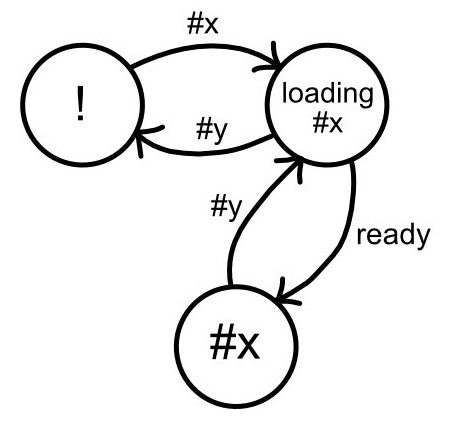
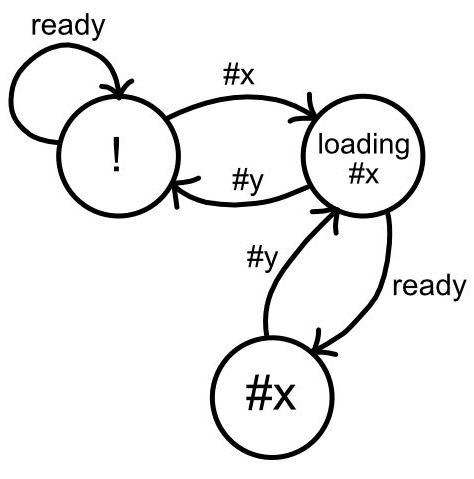
Update the readme document and the hstates image for the single-page website.

Changed region(s): [[0.0, 0.03, 0.9868, 0.9607], [0.6476, 0.9007, 0.6784, 0.9307]]

diff --git a/README.md b/README.md
@@ -4,7 +4,7 @@ JavaScript FSM (Finite State Machine)
 What is a FSM?
 --------------
 
-FSM is a model for keeping track of a finite number of states, where the machine can only be in one state at the time; the _current state_. It can change state to the _next state_ when an _event_ is triggered. This can then perform some sort of _action_. The machine is usually defined as a table with four columns: _Current State_, _Transition Event_, _Next State_ and _Action_.
+FSM is a model for keeping track of a finite number of states, where the machine can only be in one state at the time; the _current state_. It can change state to the _next state_ when an _event_ is triggered, this can perform some sort of _action_. The machine is usually defined as a table with four columns: _Current State_, _Transition Event_, _Next State_ and _Action_.
 
 Because of the FSM model's simplicity and ability to handle asynchronous code, it can be in good use in a single-page application, among others.
 
@@ -28,34 +28,34 @@ _Append:_ Takes a scope function as an argument, this function should then retur
       }
       
       return [
-        ['init', 'ready', 'home', onReady],
+        ['^init', 'ready', 'home', onReady],
         [/^\w+/,  'load'   'home', onLoad]
       ];
     })
   
 The state table has the following structure: [_Current State_, _Transition Event_, _Next State_, _Action_].
 
-  - _Current State_: Can be a string with the state name or a RegExp object, if a RegExp object is given it will add the event to every state that matches that expression, except the next state.
+  - _Current State_: Can be a string with the state name or a RegExp object, if a RegExp object is given it will add the event to every state that matches that expression, except the _next state_.
   - _Transition Event_: Change the state of the machine, if applicable.
   - _Next State_: Name of the next state. If a '<' given it will go to the last state.
-  - _Action_: Function that perform some kind of action, can be omitted.
+  - _Action_: Function that perform some kind of _action_, can be omitted.
 
-_fireEvent_: Fires a transition event with arguments. It will call the action with the given arguments and change the state according to the FSM table. If there are no current state and event par an error will be thrown.
+_fireEvent_: Fires a transition event with arguments. It will call the action with the given arguments and change the state according to the FSM table. If there are no _current state_ and _event_ pairs an error will be thrown.
 
     fsm.fireEvent('load', "page/home.template.html");
 
 Example: Single Page Website
 ----------------------------
 
-This demo shows a simple [Single Page Website](https://hexgecko.github.io/js-fsm/single-page-website/#home) where the page is load as a template with an ajax call using jQuery. Source code for the project can be found [here](https://github.com/hexgecko/js-fsm/tree/master/docs/single-page-website).
+[This demo](https://hexgecko.github.io/js-fsm/single-page-website/#home) shows a simple single-page website where the content of the page is load as a template using a jQuery ajax call. Source code for the project can be found [here](https://github.com/hexgecko/js-fsm/tree/master/docs/single-page-website).
 
 The site have the following state:
 
 ![Show the states the single-page website has](https://raw.githubusercontent.com/hexgecko/js-fsm/master/docs/single-page-website/img/states.jpg)
 
-_where #x and #y are hash addresses to a page._
+_where #x and #y are hash addresses to a pages._
 
-The default state is the '!' where it wait for the document to get ready. When ready it inialize the logic to send an event when the hash address changes. If a hash address event is send it goes to the loading state for that page, here it loads the page template and display a waiting spinner while it's loaded. When the loaded is complete it will change the state to the #x state and wait for the next #y adress to change. There is a special case if the user try to change page while it's loading, the site will then be reloaded with the new hash page.
+The default state is the '!' where it wait for the document to get ready. When it's ready, the logic to send event when the hash address is change is inialized. If a hash address event is send it goes to the loading state for that page, here it loads the page template to the content and display a spinner while loading. When the loader is complete it will change the state to the #x state and wait for the next #y address to be change. There is a special case if the user try to change page while it's loading, the site will then be reloaded with the new hash page.
 
 Download
 --------
